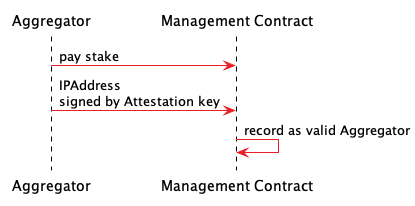
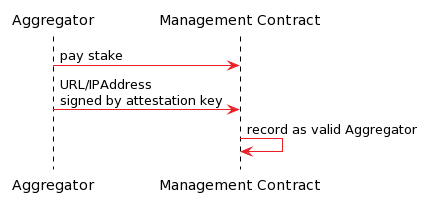
Updated with Fred's feedback.

diff --git a/header-numbers.css b/header-numbers.css
@@ -4,14 +4,17 @@ h2{counter-reset: sub-section}
 h3{counter-reset: composite}
 
 h1:before{
- counter-increment: chapter;
- content: counter(chapter) " ";
+    counter-increment: chapter;
+    content: counter(chapter) " ";
 }
 h2:before{
- counter-increment: section;
- content: counter(chapter) "." counter(section) " ";
+    counter-increment: section;
+    content: counter(chapter) "." counter(section) " ";
 }
 h3:before{
- counter-increment: sub-section;
- content: counter(chapter) "." counter(section) "." counter(sub-section) " ";
+    counter-increment: sub-section;
+    content: counter(chapter) "." counter(section) "." counter(sub-section) " ";
+}
+code{
+    font-size: smaller;
 }

diff --git a/consensus.md b/consensus.md
@@ -9,7 +9,7 @@ The high level goals of the POBI protocol are:
 
 To achieve fairness, the POBI protocol states that the TEE can generate one random nonce each round, and the winner of a round is the Aggregator whose TEE generates the lowest random number from the group. The TEEs generate these numbers independently and then gossip them. The Aggregators who do not win the round, similar to L1 miners, respect this decision because it is rational to do based on the incentive mechanism. If they choose to not respect the protocol, they are free to submit a losing rollup to the L1, which is ignored by all compliant Aggregators, meaning such an Aggregator has to pay L1 gas and not get any useful reward.
 
-The second goal is achieved by linking the random nonce generation, which terminates a round, to the Merkle proof of inclusion of the parent rollup in an L1 block. This property is what gives the name of the protocol. This means that an Aggregator can obtain a signed rollup from the TEE only if it can present a Merkle proof of block inclusion. Furthermore, this feature links the creation of L2 rollup to an L1 block, thus synchronising their cadence.
+The second goal is achieved by linking the random nonce generation, which terminates a round, to the Merkle proof of inclusion of the parent rollup (which exists as a transaction in the L1 transaction Patricia trie) in an L1 block. This property is what gives the name of the protocol. This means that an Aggregator can obtain a signed rollup from the TEE only if it can show the rollup is based on a published rollup in a prior L1 block. Furthermore, this feature links the creation of L2 rollup to an L1 block, thus synchronising their cadence.
 
 A party wishing to increase its chances of winning rounds must register multiple Aggregators and pay the stake for each. The value of the stake needs to be calculated in such a way as to achieve a right decentralisation and practicality balance. 
 
@@ -17,7 +17,7 @@ It is straightforward for all the other Aggregators to verify which rollup is th
 
 Note that the L1 Management Contract is not checking the nonces of the submitted rollups, but it checks that the block inclusion proof is valid. The L1 contract rejects rollups generated using a proof of inclusion that is not an ancestor of the current block.
 
-A further issue to solve is to ensure that the host cannot repeatedly submit the proof to the TEE to try to get a lower nonce.
+A further issue to solve is to ensure that the host cannot repeatedly submit the proof to the TEE to try to get a lower nonce, explained [here](#preventing-repeated-random-nonce-generation).
 
 ## Typical Scenario
 1. A new round starts from the point of view of an Aggregator when it decides that someone has gossiped a winning rollup. At that point, it creates a new empty rollup structure, points it to the previous one, and starts adding transactions to it (which are being received from users or by gossip).
@@ -74,9 +74,7 @@ Given that the nonce is a random number with sufficient entropy, we assume there
 ## Preventing Repeated Random Nonce Generation
 In phase 3 of the protocol, the TEE of each Aggregator generates a random nonce which determines the winner of the protocol. This introduces the possibility of gaming the system by restarting the TEE and generating multiple numbers.
 
-The solution proposed by Obscuro is to introduce a timer upon startup in the constructor of the enclave. A conventional timer, based on the clock of the computer, is not very effective since the host can game it.
-
-The solution is for the enclave to serially (on a single thread) calculate a large enough number of SHA256 hashes, which it would not be able to do faster than an average block time even on powerful hardware.
+The solution proposed by Obscuro is to introduce a timer in the constructor upon every startup of the enclave. A conventional timer, based on the clock of the computer, is not very effective since the host can game it. Instead, the enclave must calculate serially (on a single thread) a large enough number of SHA256 hashes, which it would not be able to do faster than an average block time even on powerful hardware.
 
 This solution is effective since the code is attested and does not rely on any input from the host.
 
@@ -99,10 +97,6 @@ To achieve this, the protocol has to maintain a pool of tokens. Users will pay f
 
 Note, that an important assumption is that the reward from publishing a rollup will never exceed twice the gas cost. This can be tweaked by the formulas that calculate the [fees and rewards](./fees-rewards).
 
-Compared to a typical L1 protocol, there is an additional complexity to consider. In an L1 like Bitcoin or Ethereum, once a node gossips a valid block, all the other nodes are incentivised to use it as a parent, because they know everyone will do that as well. In an L2 decentralised protocol like POBI, there is an additional step, which is the publication of the rollup to L1, which can fail for multiple reasons. Furthermore, the incentive design must also consider the problem of front-running the actual rollup. For a rollup to be final, it has to be added to an L1 block, which is where an L1 miner or staker can attempt to claim the reward that rightfully belongs to a different L2 node.
-
-The high level goal is to keep the system functioning as smoothly as possible, and be resistant to random failures or malicious behaviour, while not penalising Obscuro nodes for not being available. Obscuro introduces the concept of _claiming rewards_ independently of the actual canonical rollup chain. The great advantage is increased flexibility in aligning incentives, at the cost of increased complexity. Rewards can be awarded in full, split between Aggregators or just enough to cover the cost of gas. The cost of publishing a rollup will never exceed twice the gas cost.
-
 These are the Aggregator rewarding rules:
 
 1. The first Aggregator to successfully published a rollup without competition in an L1 block will get the full reward. This is the most efficient case that is encouraged.
@@ -111,7 +105,7 @@ _Note: Competition means another rollup with the same parent._
 2. If multiple rollups generated with the same L1 proof and different nonces are published in the same block (the target block), the one with the lowest nonce is on the canonical chain, but the reward is split between them in a proportion of 75/25 (this ratio is indicative only). The reason for this rule is that it incentivises Aggregators to gossip their winning rollup such that no one else publishes at the same time.
     - There is no incentive for the losing Aggregator to publish as 25% of the reward will not cover the cost of gas, so they will make a loss.
     - There is an incentive for the winning Aggregator to gossip the rollup to everyone else to avoid having this unwanted competition.
-    - In case of a genuine failure in gossip, the losing Aggregator receives something. This is to reduce the risk of Aggregators waiting more than necessary to receive messages from all the other Aggregators.
+    - In case of a genuine failure in gossip (i.e. beyond designed latency), the losing Aggregator receives something. This is to reduce the risk of Aggregators waiting more than necessary to receive messages from all the other Aggregators.
 
 3. If multiple sibling rollups generated using different L1 blocks as proof are included in the same block, the one created with the most recent proof receives the full reward. 
 
@@ -127,7 +121,7 @@ _Note: Competition means another rollup with the same parent._
 
      The even splitting of the reward also encourages the Aggregator that wins a nonce generation round to publish as soon as possible, because publishing a block later will at best result in a small loss.
 
-5. If two sibling rollups created from the same L1 proof are published more than one block apart, where the first published rollup has a higher nonce, then pay the reward in full to the first published rollup. The reason for this rule is that the winner most likely added too little gas, and someone else spotted the opportunity and contributed to earlier finality, which is rewarded.
+5. If two sibling rollups created from the same L1 proof are published more than one block apart, where the first published rollup has a higher nonce, then pay the reward in full to the first published rollup. The reason for this rule is that the winner most likely added too little gas, and someone else spotted the opportunity and contributed to earlier finality, which is rewarded. It adds an incentive to monitor gas prices and pay enough to ensure their rollup is published.
 
 
 The following diagrams depict some of the rewarding rules:
@@ -136,7 +130,7 @@ The following diagrams depict some of the rewarding rules:
 The following diagram depicts rules in the case of front-running:
 ![l1 front running](./images/block-frontrunning.png)
 
-This is python-like pseudocode to calculate the rewards that can be claimed by an _Aggregator_ for a _Rollup_Height_. Note that it is not comprehensive.
+This is python-like pseudocode to calculate the rewards that can be claimed by an _Aggregator_ for a _Rollup_Height_. Note that it is not comprehensive, and there may be many competing aggregators.
 
 ```python
 # The rollup height for which we calculate the rewards

diff --git a/account-based-state.md b/account-based-state.md
@@ -1,5 +1,5 @@
 ## State
-Obscuro is an account-based L2 decentralised ledger system similar to the L1 Ethereum blockchain, where the state is calculated independently by each node based on the canonical list of transactions and stored as a _Patricia Tree Root_ in each rollup. One significant difference is that the account balances can only be calculated inside the TEEs and are only revealed under certain conditions. The model is not described further in this paper because it is the same as [Ethereum Accounts](https://ethereum.org/en/developers/docs/accounts/).
+Obscuro is an account-based L2 decentralised ledger system similar to the L1 Ethereum blockchain, where the state is calculated independently by each node based on the canonical list of transactions and stored as a _Patricia Trie_ in each rollup. Each node processes all prior transactions to establish the current state (full sync), and optimised sync methods (e.g. fast sync) will likely be supported. One significant difference is that the account balances can only be calculated inside the TEEs and are only revealed under certain conditions. The model is not described further in this paper because it is the same as [Ethereum Accounts](https://ethereum.org/en/developers/docs/accounts/).
 
 The transaction and smart contract formats are similar to Ethereum, with a few differences introduced by the confidentiality requirements.
 
@@ -17,18 +17,16 @@ The main goal of Obscuro is to protect user data. If smart contracts were wholly
 
 Contract composition introduces significant complexity. DeFi enjoys massive success thanks to the ability of contracts to be combined in serendipitous ways not predicted by the contract creator, and Obscuro intends to replicate that.
 
-For example, consider a flash-loan where a user borrows 10 ETH from Aave, swaps them for 100 ABC coins on UniSwap, then swaps them for 500 DEF coins on SushiSwap, and then swaps them for 10.1 ETH on UniSwap, and then pays back the loan and makes a 0.1 ETH profit.
+For example, one contract might have been written to reveal information for the caller's eyes only in an encrypted response. But if the caller is another contract, that wrapping contract might turn the response into a public broadcast event, visible to everyone.
 
-In this case, the flash-loan contract needs to query balances or find out if it can loan a certain amount. It also needs to know the price for the ABC/BCD on a specific exchange. All this information that it needs access to perform its duties could, in theory, be emitted directly or indirectly as an event to the caller of the contract. Alternatively, the attacker could write the state on accounts they controlled.
-
-This area is still under active research. The first version will rely on application developers to check programmatically who can call different functions and what data they should receive.
+This area is still under active research. The first version of Obscuro will rely on application developers to check programmatically who can call different functions and what data they should receive, and therefore developers should reason about what could happen if their contract is called by a contract that they don't control.
 
 For subsequent versions, Obscuro explores the following concepts:
 * Each contract can declaratively whitelist contracts that can access different functions.
 * Automatically propagate access. For example, if _Account.getBalance()_ can be invoked only by the owner, it means that any contract that invokes this has to originate from a message signed by the owner. This solution sounds appealing, but it needs more research to determine if this mechanism prevents useful use cases.
 
 ###  Wallets and Transaction Submission
-User wallets creates transactions encrypted with the _Obscuro public key_. Only valid TEEs in possession of the Master Seed can decrypt, execute, and see the resulting state. Still, end-users who submitted a transaction must be able to receive the result and query the balance.
+User wallets create transactions encrypted with the _Obscuro public key_. Only valid TEEs (i.e. Aggregators and Verifiers) in possession of the Master Seed can decrypt, execute, and see the resulting state. Still, end-users who submitted a transaction must be able to receive the result and query the balance.
 
 A traditional wallet connected to a node on a public blockchain can read the balance of any account and display it to the user. For a similar user experience, Obscuro-enabled wallets need to submit signed requests to L2 nodes and receive responses that they can display to the user. The responses need to be encrypted with the user key and have to be cryptographic proofs linking the balance to a rollup.
 

diff --git a/governance.md b/governance.md
@@ -4,8 +4,7 @@ There are several types of power exercised in a decentralised system:
 2. Implicit powers implemented in an immutable protocol.
 3. Implicit powers implemented in a protocol that itself is represented by an open-source codebase that is mutable.
 
-Note that almost nothing is truly immutable because a codebase or even hardware executes even the most immutable protocol and can change its behaviour. In theory, a truly immutable system could be achieved using various hash constraints within TEEs; however, allowing for upgrades is a more desirable outcome.
-Ultimately, for all other cases, there is an explicit governance process somewhere. It is turtles all the way down.
+Note that almost nothing is truly immutable because a codebase or even hardware executes even the most immutable protocol and can change its behaviour, or it can be changed. In theory, a truly immutable system could be achieved using various hash constraints within TEEs; however, allowing for upgrades is a more desirable outcome. Ultimately, for all other cases, there is an explicit governance process somewhere.
 
 Bitcoin miners, for example, have some power to determine the rules by choosing which version of the core code to install and to produce blocks with. If there is disagreement, there is a fork, and the user community ultimately decides what value to assign to each fork. This is only a problem if the competing forks have similar mining power, and thus security. For day-to-day upgrades, miners have the de-facto decision power, but in case of disagreements, the users have the ultimate power through free markets.
 This is currently the golden standard for decentralised governance, with advantages and disadvantages.
@@ -17,7 +16,7 @@ After that hard lesson, most Ethereum smart contracts have component contracts t
 The key difference between the golden standard of Bitcoin, and typical smart contract governance, is that the end-users no longer have any power to choose which "smart contract fork" they prefer. Using the original smart contract and adding some value to it, they are at the mercy of the application governors.
 
 Since the Obscuro protocol is anchored in Ethereum as a smart contract, it cannot rely on the end-users to hold the ultimate power.
-The next best thing is to be very explicit about all the system's powers and achieve separation of powers.
+The next best thing is to be very explicit about all the system's powers and achieve separation of decision-making (which can be devolved to token-holders and articulated in a governance specification as proposals) from execution (which relies on individuals pushing buttons).
 
 ## Obscuro powers
 Building on the above, the following powers are exercised within Obscuro.
@@ -29,14 +28,13 @@ The parties who have the power to set the AC and thus appoint auditors ultimatel
 
 This concern is not entirely different from the smart contracts security auditors, except that typically users decide which auditors they trust by using or not using those contracts.
 
-
 ###  2. Administration Of Ethereum Management Contracts.
-Like all the other Ethereum applications, these contracts will have upgradeable parts to cater for bugs and new features. Whatever is upgradeable means that the _administrators_ have full powers over those aspects.
+Like most other Ethereum applications, these contracts will have upgradeable parts to cater for bugs and new features. Whatever is upgradeable means that the _administrators_ have full powers over those aspects.
 1. Bridge logic
 2. Rollup logic
 3. Attestation logic
 
-In the example above, the auditors are a fixed list. However, that might not be practical, as companies might appear or disappear. The list of approved auditors has to be managed by a proposal and vote process by the community without any requirement for human intervention. Going a level deeper, the code that manages this process might need to be upgradeable, so someone ends up controlling it.
+In the example above, the auditors are a fixed list. However, that might not be practical, as companies might appear or disappear. The list of approved auditors has to be managed by a proposal and vote process by the community without any requirement for central intervention. Going a level deeper, the code that manages this process might need to be upgradeable, so someone ends up controlling it.
 
 ###  3. Creating Rollups
 Another power, equivalent to the L1 stakers or miners, is held by Obscuro Aggregators. They run attested software and hardware and have paid a stake.

diff --git a/aggregators-verifiers.md b/aggregators-verifiers.md
@@ -28,7 +28,7 @@ These are the steps to become an Aggregator.
 * Once in possession of the secret, the TEE can start processing all the L2 transactions that are stored on the L1 blockchain and build the state.
 * Once this is completed, the new Aggregator can join the gossip with the other Aggregators and participate in the lottery for producing rollups.
 * Some end users will send encrypted instructions directly to this server, and it will gossip these with other nodes in the L2 network.
-* As Aggregators process messages, they maintain the L2 state in the encrypted TEE memory or encrypted in a local database. If they are the winner of the round they can create a valid rollup and publish it to L1.
+* As Aggregators process messages, they maintain the L2 state in the encrypted TEE memory and then journal encrypted data in a local database. If they are the winner of the round they can create a valid rollup and publish it to L1.
 * All Aggregators keep track of the blocks submitted to the Management Contract to make sure they are up-to-date with the source of truth.
 * The first Aggregator to register has a special role, as it has to create the _Shared secret_.
 
@@ -38,7 +38,7 @@ The steps to register as an Aggregator are shown in the following diagram:
 ![aggregator staking](./images/aggregator-stake.png)
 
 #### Verifier Nodes
-Verifiers are nodes in possession of the shared secret that have not pledged the stake and are not part of the Aggregator gossip network. To receive the L2 transactions, they monitor the L1 network and calculate the state based on the rollups submitted there.
+Verifiers are TEE-equiped Obscuro nodes in possession of the shared secret and play a strong role in consensus security. They are configured differently and have not pledged the stake or are part of the Aggregator gossip network. To receive the L2 transactions, they monitor the L1 network and calculate the state based on the rollups submitted there.
 
 End users can interact with either Aggregators or Verifiers to receive events on submitted transactions or query their accounts' balance. Anyone can become a Verifier with minimal cost if they have compatible hardware.
 

diff --git a/obscuro-ethereum-interaction.md b/obscuro-ethereum-interaction.md
@@ -11,7 +11,7 @@ The user deposits supported ERC tokens into the well known address of the Bridge
 
 The fact that the finality of L1 transactions is probabilistic makes crediting the L2 account not straightforward. Most solutions solve this problem by waiting for a confirmation period before crediting the account. Obscuro takes a different approach and introduces a dependency mechanism between the L2 rollup and the L1 blocks.
 
-The rule is that the L2 rollup that includes the transaction that credits the Obscuro account has a hard dependency on an L1 block, and the Bridge contract enforces that it is one of the ancestors of the current block. If the L1 deposit transaction is no longer on the canonical L1 chain, it automatically invalidates the rollup that contains the L2 deposit transaction.
+The rule is that the L2 rollup that includes the transaction that credits the Obscuro account has a hard dependency on an L1 block, and the Bridge contract enforces that it is one of the ancestors of the current block. If the L1 deposit transaction is no longer in the canonical L1 chain, it automatically invalidates the rollup that contains the L2 deposit transaction, and the L1 deposit will only be recognised as the basis for an L2 rollup credit transaction when it has been included in the canonical L1 chain.
 
 The interaction is shown in the following diagram:
 ![user registration](./images/user-registration.png)

diff --git a/high-level-design.md b/high-level-design.md
@@ -1,5 +1,5 @@
 # High Level Design
-Obscuro has designed for an L2 protocol, where user activity is moved _off-chain_ from the L1, and it follows the increasingly common rollup pattern to store transactions on the L1 chain to achieve data availability. Most [rollup](https://vitalik.ca/general/2021/01/05/rollup.html) implementations exist to provide scalability for L1 networks, but the prime objective of Obscuro is to provide confidentiality.
+Obscuro is designed as an L2 protocol, where user activity is moved _off-chain_ from the L1, and it follows the increasingly common rollup pattern to store transaction data on the L1 chain to achieve censorship-resistant data availability. This is [leading to proposals](https://notes.ethereum.org/@vbuterin/data_sharding_roadmap) to reduce calldata storage costs on Ethereum. Most [rollup](https://vitalik.ca/general/2021/01/05/rollup.html) implementations exist to provide scalability for L1 networks, but the prime objective of Obscuro is to provide confidentiality. The rollups contain the entire encrypted transaction data.
 
 L2 networks have a unidirectional dependency on an L1 network: while the L2 network relies on the L1 network to provide an immutable and public record of transaction data and to provide censorship resistance, liveness and availability, the L1 network is unaware of any individual L2 network. L2 submitted rollups are just normal L1 transactions.
 

diff --git a/l1-contracts.md b/l1-contracts.md
@@ -7,7 +7,7 @@ This contract is the gatekeeper for the protocol. Therefore, any node wishing to
 * It registers L2 nodes, verifies their TEE attestation, and manages their stakes. (Stakes are required for the Aggregators who publish rollups as an incentive to follow the protocol.)
 * It manages the TEE attestation requirements. This means that the governance of the contract can decide which enclave code is approved to join.
 * It manages the L2 TEEs' shared secret key to be available in case of L2 node failure. The L1 acts as the ultimate high availability storage. Note: This is expanded in the [Cryptography](./cryptography) section.
-* It keeps a list of IP addresses for all Aggregators.
+* It keeps a list of URLs (or IP addresses) for all Aggregators. The use of URLs allows for the underlying IP address to be changed. Verifiers do not stake, and are not a gossip recipient, so their address is not recorded, but they must register in order to attest a correct TEE and to be able to collect rewards.
 
 ### Rollup Management
 This contract interacts with the Aggregators.
